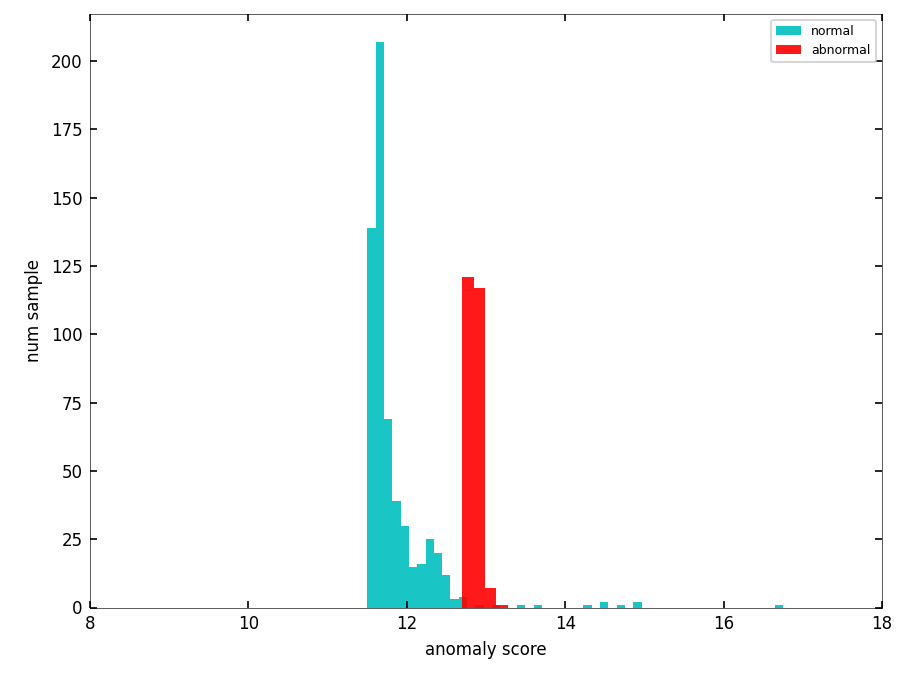
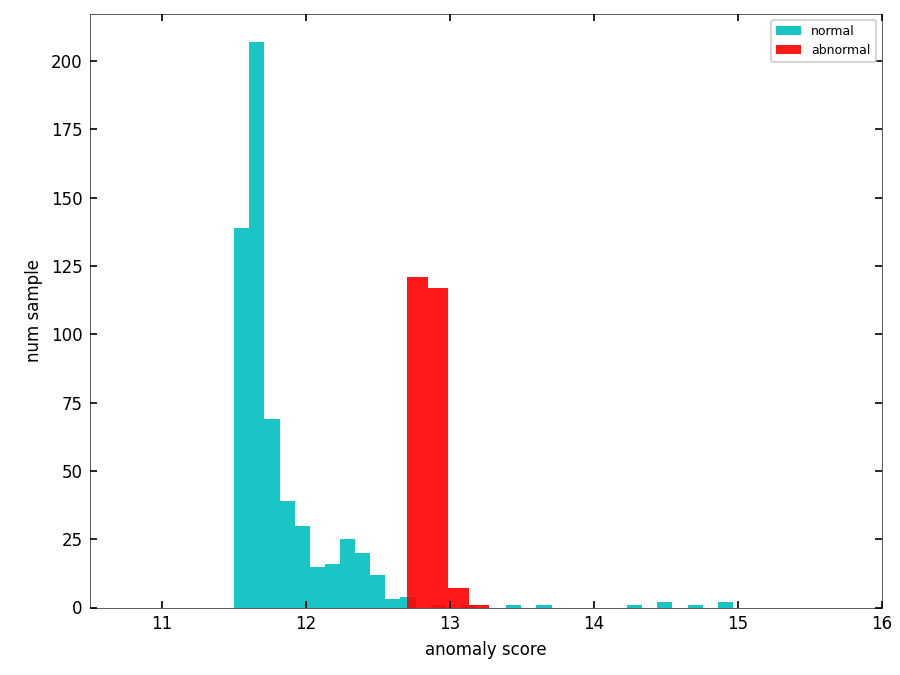
微修正

diff --git a/script/04_visualizeAnomalyScore.py b/script/04_visualizeAnomalyScore.py
@@ -35,8 +35,8 @@ pred_anomaly_valid = all_data['valid_pred_anomaly']
 
 fig , axes = plt.subplots(1, 1)
 axes.hist(pred_normal_valid, bins=50, color='c', alpha=0.9, label='normal')
-axes.hist(pred_anomaly_valid, bins= 200, color='r', alpha=0.9, label='abnormal')
-axes.set_xlim(0.5, 2)
+axes.hist(pred_anomaly_valid, bins= 300, color='r', alpha=0.9, label='abnormal')
+axes.set_xlim(0.8, 1.5)
 axes.set_xlabel("anomaly score", weight = "light")
 axes.set_ylabel("num sample", weight = "light")
 axes.legend()
@@ -54,7 +54,7 @@ pred_naive = df['pred']
 fig , axes = plt.subplots(1, 1)
 axes.hist(score_naive_normal, bins=50, color='c', alpha=0.9, label='normal')
 axes.hist(score_naive_anomaly, bins=200, color='r', alpha=0.9, label='abnormal')
-axes.set_xlim(8, 18)
+axes.set_xlim(10.5, 16)
 axes.set_xlabel("anomaly score", weight = "light")
 axes.set_ylabel("num sample", weight = "light")
 axes.legend()

diff --git a/data/README.md b/data/README.md
@@ -1,9 +1,3 @@
 # data
 
 TAMAGOで録音した生データや加工済みのデータを置くディレクトリ．
-
-## ディレクトリ構成
-- rawData_df.csv:	生データの情報を格納したcsv
-- rawData:	生データをマウントするディレクトリ
-- splitData:	生データを10秒ごとに分割したデータが格納されている
-- stftData:	10秒ごとに分割したデータに対してSTFTを施し，得られた振幅スペクトログラムと位相スペクトログラムが格納されている
